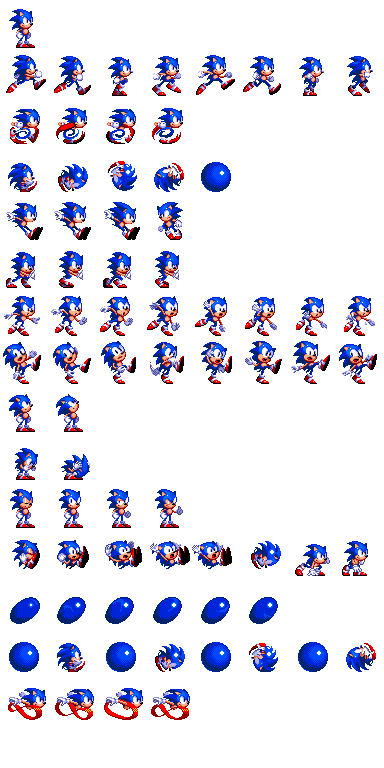
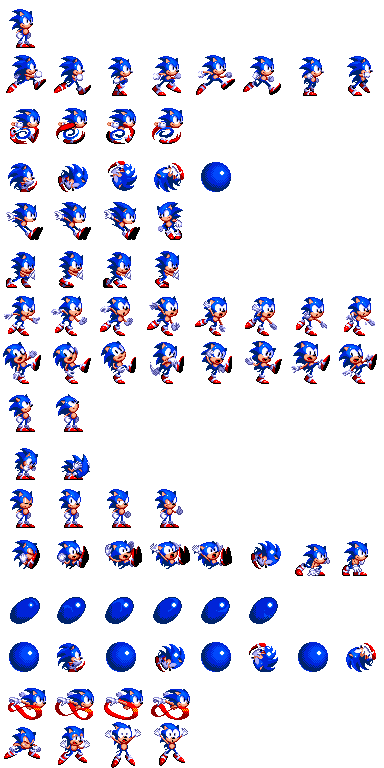
added death mechanic

diff --git a/scripts/player/player_update.c b/scripts/player/player_update.c
@@ -84,7 +84,6 @@ void sound_update(player *p)
         sfMusic_stop(p->sound[BRAKE]);
     if (p->is_hurt == sfFalse) {
         sfMusic_stop(p->sound[RING_LOSS]);
-        sfMusic_stop(p->sound[DEATH]);
     }
 }
 
@@ -110,19 +109,25 @@ void update_player(player *p, game *g)
             if (p->cooldown <= 0)
                 p->is_hurt = sfFalse;
         }
-        if (p->is_dying == sfTrue)
-            restart(g, p);
-        misc(p);
+        if (p->is_dying == sfTrue) {
+            p->speed_y += 0.25f;
+            p->obj->pos.y += p->speed_y;
+            if (p->obj->pos.y > W_H)
+                restart(g, p);
+        }
         invisible_walls(p, g);
-        for (int i = 0; g->e[i].enemytype != -1; i++)
-            enemy_collision(p, &g->e[i], g);
-        for (int i = 0; g->r[i].is_null != sfTrue; i++)
-            ring_collision(p, &g->r[i], g, i);
-        movement(p, g);
-        raycast(p, g);
-        gravity(p);
+        if (p->is_dying == sfFalse) {
+            for (int i = 0; g->e[i].enemytype != -1; i++)
+                enemy_collision(p, &g->e[i], g);
+            for (int i = 0; g->r[i].is_null != sfTrue; i++)
+                ring_collision(p, &g->r[i], g, i);
+            misc(p);
+            movement(p, g);
+            raycast(p, g);
+            gravity(p);
+        }
         animate(p);
-        //print_status(p);
+        print_status(p);
         camera_adjustments(p, g, sfFalse);
         sound_update(p);
         if (p->obj->pos.x + g->camera_pan_x >= g->width * 100 - 70)

diff --git a/scripts/player/collision.c b/scripts/player/collision.c
@@ -86,19 +86,18 @@ void enemy_collision(player *p, enemy *e, game *g)
         if (p->anim_state != JUMPING
         && p->anim_state != DASHING && p->anim_state != SPINNING
         && p->is_hurt == sfFalse) {
-            p->is_hurt = sfTrue;
             p->speed_x = 0;
-            p->speed_y = -8;
-            p->cooldown = 7 * 8;
-            g->score -= 150;
             if (g->rings > 0) {
+                p->is_hurt = sfTrue;
+                p->speed_y = -8;
+                p->cooldown = 7 * 8;
                 sfMusic_play(p->sound[RING_LOSS]);
                 g->rings = 0;
-            }
-            else {
-                sfMusic_stop(p->sound[DEATH]);
+            } else {
                 sfMusic_stop(g->bg_music);
+                sfMusic_stop(p->sound[DEATH]);
                 sfMusic_play(p->sound[DEATH]);
+                p->speed_y = -10;
                 p->is_dying = sfTrue;
             }
         } else if (p->anim_state == JUMPING

diff --git a/include/my_runner.h b/include/my_runner.h
@@ -26,6 +26,7 @@
     #define SPINNING 12
     #define DASHING 13
     #define SPEEDING 14
+    #define DYING 15
     #define JUMP 0
     #define BADNIK_DEATH 1
     #define BRAKE 2
@@ -130,7 +131,7 @@ typedef struct player {
     sfBool is_dying;
     int is_edging;
     int anim_state;
-    animation anim[15];
+    animation anim[16];
     int running_anim;
     int anim_frame;
     sfMusic *sound[7];

diff --git a/scripts/player/player_create.c b/scripts/player/player_create.c
@@ -27,6 +27,7 @@ player create_animations(player p)
     create_animation(&p.anim[SPINNING], 6, 5, sfTrue);
     create_animation(&p.anim[DASHING], 8, 3, sfTrue);
     create_animation(&p.anim[SPEEDING], 4, 3, sfTrue);
+    create_animation(&p.anim[DYING], 4, 10, sfFalse);
     return p;
 }
 

diff --git a/scripts/animation.c b/scripts/animation.c
@@ -41,7 +41,8 @@ void choose_anim_state(player *p)
         p->anim_state = HURTING;
     if (p->goal_reached == sfTrue)
         p->anim_state = THUMBSUP;
-
+    if (p->is_dying == sfTrue)
+        p->anim_state = DYING;
 }
 
 void animate(player *p)

diff --git a/scripts/create.c b/scripts/create.c
@@ -73,6 +73,8 @@ void restart(game *g, player *p)
     g->rings = 0;
     p->obj->pos = (sfVector2f) {100, find_free_spot(g->map, 0) * 100 + 48};
     *p = create_bools(*p);
+    p->speed_y = 0;
+    p->speed_x = 0;
 }
 
 game create_game()
